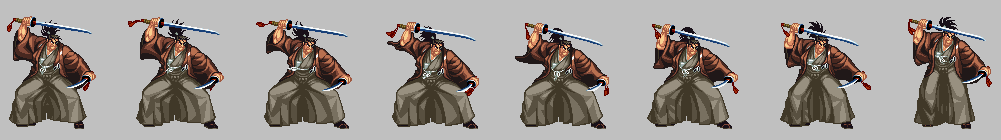
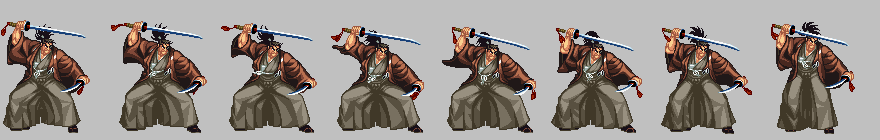
Agregadas subclases resueltos bugfix

diff --git a/test.py b/test.py
@@ -9,7 +9,7 @@ pygame.init()
 pantalla_ancho = 1600
 pantalla_alto = 1000
 pantalla = pygame.display.set_mode((pantalla_ancho, pantalla_alto))
-pygame.display.set_caption("Pelea de dioses")
+pygame.display.set_caption("God's Fight")
 
 # Colores
 blanco = (255, 255, 255)
@@ -22,6 +22,9 @@ verde_transparente = (0, 255, 0, 128)
 verde_vd = (1, 233, 12)
 amarillos_ps = (255, 243, 78)
 fondo_samurai = (192, 192, 192)
+fondo_anubis = (84,165,75)
+fondo_anubis2 = (58,111,51)
+fondo_anubis3 = (27,89,153)
 
 # Configuración del reloj
 reloj = pygame.time.Clock()
@@ -34,7 +37,10 @@ duracion_partida = 120
 inicio_tiempo = pygame.time.get_ticks()
 
 # Plataforma
-plataforma = pygame.Rect(200, 550, pantalla_ancho - 400, 200)
+imagen_plataforma = pygame.image.load('assets/images/plataforma.jpg').convert_alpha()
+plataforma = pygame.Rect(200, 550, pantalla_ancho - 400, 500)
+imagen_plataforma = pygame.transform.scale(imagen_plataforma, (plataforma.width, plataforma.height))
+
 
 def cargar_sprites(hoja, num_sprites, ancho_sprite, alto_sprite, color):
     sprites = []
@@ -46,12 +52,13 @@ def cargar_sprites(hoja, num_sprites, ancho_sprite, alto_sprite, color):
     return sprites
 
 class Jugador:
-    def __init__(self, rectan, aura, velocidad=2, fuerza_salto=7.5, gravedad=0.3, sprites=None):
+    def __init__(self, rectan, aura, velocidad=2, fuerza_salto=7.5):
         self.rectan = rectan
         self.aura = aura
         self.velocidad = velocidad
+        self.velocidad_inicial = velocidad
         self.fuerza_salto = fuerza_salto
-        self.gravedad = gravedad
+        self.gravedad = 0.3
         self.velocidad_y = 0
         self.en_plataforma = False
         self.salud = 500
@@ -62,47 +69,54 @@ class Jugador:
         self.retroceso_y = 0
         self.proyectiles = []
 
-        # Animaciones
-        self.sprites = sprites
-        self.animacion_actual = "idle"
-        self.animaciones = {
-            "idle": cargar_sprites(pygame.image.load('assets/anims/samurai/idle_samurai.png').convert_alpha(), 10, 107.6, 140, fondo_samurai),
-            "run": cargar_sprites(pygame.image.load('assets/anims/samurai/caminar_samurai.png').convert_alpha(), 8, 125, 140, fondo_samurai),
-            "run_b": cargar_sprites(pygame.image.load('assets/anims/samurai/caminata_atras_samurai.png').convert_alpha(), 8, 118.25, 140, fondo_samurai),
-            "jump": cargar_sprites(pygame.image.load('assets/anims/samurai/salto_samurai.png').convert_alpha(), 5, 108.2, 140, fondo_samurai),
-            "attack": cargar_sprites(pygame.image.load('assets/anims/samurai/ataque_samurai.png').convert_alpha(), 5, 146.2, 140, fondo_samurai),
-            "defense": cargar_sprites(pygame.image.load('assets/anims/samurai/bloqueo_samurai.png').convert_alpha(), 4, 109, 140, fondo_samurai),
-            'hit': cargar_sprites(pygame.image.load('assets/anims/samurai/dañado_samurai.png').convert_alpha(), 5, 121.6, 140, fondo_samurai)
-        }
-        self.sprite_index = 0
-        self.image = self.animaciones[self.animacion_actual][self.sprite_index]
-        self.tiempo_ultimo_sprite = pygame.time.get_ticks()
-        self.tiempo_entre_sprites = 75  # Milisegundos entre cada frame de la animación
+    def actualizar_animacion(self):
+        ahora = pygame.time.get_ticks()
+        if ahora - self.tiempo_ultimo_sprite > self.tiempo_entre_sprites:
+            self.tiempo_ultimo_sprite = ahora
+            self.sprite_index += 1
+            if self.sprite_index >= len(self.animaciones[self.animacion_actual]):
+                self.sprite_index = 0
+            self.image = self.animaciones[self.animacion_actual][self.sprite_index]
 
 
-    def actualizar(self, teclas, izq, derecha, salto, defensa, ataque, otro_jugador):
+    def actualizar(self, teclas, izq, derecha, salto, defensa, ataque, ataque_f, otro_jugador):
         tiempo = pygame.time.get_ticks()
         if teclas[izq]:
+            if self.en_plataforma:
+                self.animacion_actual = "run_b"
             self.rectan.x -= self.velocidad
             self.aura.x -= self.velocidad
-            self.animacion_actual = "run_b"
+            if self.rectan.colliderect(plataforma):
+                self.rectan.left = plataforma.right
+                self.aura.left = plataforma.right
     
         if teclas[derecha]:
-            self.animacion_actual = "run"
+            if self.en_plataforma:
+                self.animacion_actual = "run"
             self.rectan.x += self.velocidad
             self.aura.x += self.velocidad
+            if self.rectan.colliderect(plataforma):
+                self.rectan.right = plataforma.left
+                self.aura.right = plataforma.left
 
         if teclas[salto] and self.en_plataforma:
             self.en_plataforma = False
             self.velocidad_y = -self.fuerza_salto
         
-        if not self.en_plataforma:
+        if not self.en_plataforma and otro_jugador.animacion_actual != 'attack':
             self.animacion_actual = "jump"
         
         if teclas[ataque]:
             self.animacion_actual = "attack"
-            if otro_jugador.aura.colliderect(self.aura):
+            if otro_jugador.rectan.colliderect(self.rectan):
                 otro_jugador.animacion_actual = "hit"
+        
+        self.defendiendo = teclas[defensa]
+        if self.defendiendo:
+            self.velocidad = self.velocidad_inicial * 0.2
+            self.animacion_actual = "defense"
+        else:
+            self.velocidad = self.velocidad_inicial
         
         if self.cooldown < tiempo and not (teclas[izq] or teclas[derecha] or teclas[salto]) and otro_jugador.animacion_actual != 'attack' and self.en_plataforma:
             self.animacion_actual = "idle"
@@ -111,7 +125,8 @@ class Jugador:
         self.rectan.y += self.velocidad_y
         self.aura.y += self.velocidad_y
         self.velocidad_y += self.gravedad
-
+        if self.velocidad_y > 2:
+            self.en_plataforma = False
         # Aplicar retroceso
         self.rectan.x += self.retroceso_x
         self.rectan.y += self.retroceso_y
@@ -121,57 +136,18 @@ class Jugador:
         # Reducir el retroceso gradualmente
         self.retroceso_x *= 0.9
         self.retroceso_y *= 0.9
-
          # Colisión con la plataforma
         if self.rectan.colliderect(plataforma):
-            # Detectar desde qué lado colisiona el jugador con la plataforma
-            if self.rectan.bottom > plataforma.top and self.rectan.top < plataforma.top and self.velocidad_y > 0:
-                # Colisión desde arriba
+            if self.velocidad_y > 0:  # Sólo ajustar si el jugador está cayendo
                 self.rectan.bottom = plataforma.top
                 self.aura.bottom = plataforma.top
                 self.velocidad_y = 0
                 self.en_plataforma = True
-            # elif self.rectan.top < plataforma.bottom and self.rectan.bottom > plataforma.bottom and self.velocidad_y < 0:
-            #     # Colisión desde abajo
-            #     self.rectan.top = plataforma.bottom
-            #     self.aura.top = plataforma.bottom
-            #     self.velocidad_y = 0
-            if self.rectan.left > plataforma.left and self.rectan.left < plataforma.left:
-                # Colisión desde la izquierda
-                self.rectan.right = plataforma.left
-                self.aura.right = plataforma.left
-            if self.rectan.right < plataforma.right and self.rectan.right > plataforma.right:
-                # Colisión desde la derecha
-                self.rectan.left = plataforma.right
-                self.aura.left = plataforma.right
-        # Colisión con el otro jugador
-        # if self.rectan.colliderect(otro_jugador.rectan):
-        #     if teclas[izq]:
-        #         self.rectan.x = otro_jugador.rectan.right
-        #         self.aura.x = otro_jugador.rectan.right - 20
-        #     if teclas[derecha]:
-        #         self.rectan.x = otro_jugador.rectan.left - self.rectan.width
-        #         self.aura.x = otro_jugador.rectan.left - self.aura.width + 20
-
-        # Actualizar estado de defensa y velocidad de movimiento
-        self.defendiendo = teclas[defensa]
-        if self.defendiendo:
-            self.velocidad = 2
-            self.animacion_actual = "defense"
-        else:
-            self.velocidad = 5
+            else:
+                self.en_plataforma = False
 
         # Actualizar animación
         self.actualizar_animacion()
-
-    def actualizar_animacion(self):
-        ahora = pygame.time.get_ticks()
-        if ahora - self.tiempo_ultimo_sprite > self.tiempo_entre_sprites:
-            self.tiempo_ultimo_sprite = ahora
-            self.sprite_index += 1
-            if self.sprite_index >= len(self.animaciones[self.animacion_actual]):
-                self.sprite_index = 0
-            self.image = self.animaciones[self.animacion_actual][self.sprite_index]
 
     def bajar_salud(self, dano, direccion_retroceso):
         self.salud -= dano
@@ -213,10 +189,10 @@ class Jugador:
         pygame.draw.rect(pantalla, blanco, barra)
         pygame.draw.rect(pantalla, amarillos_ps, progreso)
     
-    def disparar_proyectil(self):
-        direccion = 1 if self.rectan.x < pantalla_ancho // 2 else -1
+    def disparar_proyectil(self, otro_jugador):
+        direccion = 1 if self.rectan.x < otro_jugador.rectan.x else -1
         velocidad = 5
-        posicion = self.rectan.midleft
+        posicion = (self.rectan.x + 5,self.rectan.y + 50)
         proyectil = Proyectil(posicion, velocidad, direccion)
         self.proyectiles.append(proyectil)
 
@@ -228,20 +204,61 @@ class Jugador:
         for proyectil in self.proyectiles:
             proyectil.dibujar()
 
-class Proyectil:
-    def __init__(self, posicion, velocidad, direccion, sprites=None):
-        self.rect = pygame.Rect(posicion, (60, 10))
-        self.velocidad = velocidad
-        self.direccion = direccion
-        self.sprites = sprites
-        self.animacion_actual = "disparado"
+# Definición de las subclases
+class Samurai(Jugador):
+    def __init__(self, rectan, aura):
+        super().__init__(rectan, aura, velocidad=4.5, fuerza_salto=7.5)
+        # Animaciones
+        self.animacion_actual = "idle"
         self.animaciones = {
-            "disparado": cargar_sprites(pygame.image.load('assets/anims/samurai/proyectil_samurai.png').convert_alpha(), 3, 129.6, 50, fondo_samurai),
+            "idle": cargar_sprites(pygame.image.load('assets/anims/samurai/idle_samurai.png').convert_alpha(), 10, 107.6, 140, fondo_samurai),
+            "run": cargar_sprites(pygame.image.load('assets/anims/samurai/caminar_samurai.png').convert_alpha(), 8, 110, 140, fondo_samurai),
+            "run_b": cargar_sprites(pygame.image.load('assets/anims/samurai/caminata_atras_samurai.png').convert_alpha(), 8, 110, 140, fondo_samurai),
+            "jump": cargar_sprites(pygame.image.load('assets/anims/samurai/salto_samurai.png').convert_alpha(), 5, 108.2, 140, fondo_samurai),
+            "attack": cargar_sprites(pygame.image.load('assets/anims/samurai/ataque_samurai.png').convert_alpha(), 5, 140, 140, fondo_samurai),
+            "defense": cargar_sprites(pygame.image.load('assets/anims/samurai/bloqueo_samurai.png').convert_alpha(), 2, 100, 140, fondo_samurai),
+            'hit': cargar_sprites(pygame.image.load('assets/anims/samurai/dañado_samurai.png').convert_alpha(), 5, 121.6, 140, fondo_samurai),
+            'shoot': cargar_sprites(pygame.image.load('assets/anims/samurai/disparo_samurai.png').convert_alpha(), 7, 195, 140, fondo_samurai)
         }
         self.sprite_index = 0
         self.image = self.animaciones[self.animacion_actual][self.sprite_index]
         self.tiempo_ultimo_sprite = pygame.time.get_ticks()
         self.tiempo_entre_sprites = 75  # Milisegundos entre cada frame de la animación
+
+class Anubis(Jugador):
+    def __init__(self, rectan, aura):
+        super().__init__(rectan, aura, velocidad=4, fuerza_salto=10)
+        # Animaciones
+        self.animacion_actual = "idle"
+        self.animaciones = {
+            "idle": cargar_sprites(pygame.image.load('assets/anims/anubis/idle_anubis.png').convert_alpha(), 8, 128.75, 98, fondo_anubis),
+            "run": cargar_sprites(pygame.image.load('assets/anims/anubis/caminata_anubis.png').convert_alpha(), 8, 129, 98, fondo_anubis),
+            "run_b": cargar_sprites(pygame.image.load('assets/anims/anubis/caminata_anubis.png').convert_alpha(), 8, 129, 98, fondo_anubis),
+            "jump": cargar_sprites(pygame.image.load('assets/anims/anubis/salto_anubis.png').convert_alpha(), 8, 128.75, 98, fondo_anubis),
+            "attack": cargar_sprites(pygame.image.load('assets/anims/anubis/ataque_anubis.png').convert_alpha(), 8, 131.375, 98, fondo_anubis),
+            "defense": cargar_sprites(pygame.image.load('assets/anims/anubis/bloqueo_anubis.png').convert_alpha(), 10, 129, 98, fondo_anubis),
+            'hit': cargar_sprites(pygame.image.load('assets/anims/anubis/caminata_anubis.png').convert_alpha(), 8, 129, 98, fondo_anubis),
+            'shoot': cargar_sprites(pygame.image.load('assets/anims/anubis/caminata_anubis.png').convert_alpha(), 8, 129, 98, fondo_anubis)
+        }
+        self.sprite_index = 0
+        self.image = self.animaciones[self.animacion_actual][self.sprite_index]
+        self.tiempo_ultimo_sprite = pygame.time.get_ticks()
+        self.tiempo_entre_sprites = 75  # Milisegundos entre cada frame de la animación
+
+class Proyectil:
+    def __init__(self, posicion, velocidad, direccion, sprites=None):
+        self.rect = pygame.Rect(posicion, (70, 10))
+        self.velocidad = velocidad
+        self.direccion = direccion
+        self.sprites = sprites
+        self.animacion_actual = "disparo"
+        self.animaciones = {
+            "disparo": cargar_sprites(pygame.image.load('assets/anims/samurai/proyectil_samurai.png').convert_alpha(), 3, 132, 30, fondo_samurai),
+        }
+        self.sprite_index = 0
+        self.image = self.animaciones[self.animacion_actual][self.sprite_index]
+        self.tiempo_ultimo_sprite = pygame.time.get_ticks()
+        self.tiempo_entre_sprites = 3000  # Milisegundos entre cada frame de la animación
 
     def actualizar(self):
         self.rect.x += self.velocidad * self.direccion
@@ -252,11 +269,11 @@ class Proyectil:
         
 class Juego:
     def __init__(self):
-        self.jugador1 = Jugador(pygame.Rect(pantalla_ancho // 2 - 250, 500, 80, 130), pygame.Rect(pantalla_ancho // 2 - 270, 380, 70, 120))
-        self.jugador2 = Jugador(pygame.Rect(pantalla_ancho // 2 + 220, 500, 80, 130), pygame.Rect(pantalla_ancho // 2 + 200, 380, 70, 120))
+        self.jugador1 = Samurai(pygame.Rect(pantalla_ancho // 2 - 240, 200, 80, 130), pygame.Rect(pantalla_ancho // 2 - 240, 200, 115, 130))
+        self.jugador2 = Anubis(pygame.Rect(pantalla_ancho // 2 + 240, 200, 80, 130), pygame.Rect(pantalla_ancho // 2 + 240, 200, 115, 130))
         self.ejecutando = True
         # Cargar la imagen de fondo
-        self.fondo = pygame.image.load("assets/images/img3.jpeg")
+        self.fondo = pygame.image.load("assets/images/img2.jpeg")
         self.fondo = pygame.transform.scale(self.fondo, (pantalla_ancho, pantalla_alto))
 
     def comprobar_colisiones_y_ataques(self, teclas, ataque_j1, ataque_j2, ataque_especial_j1, ataque_especial_j2, proyectil_j1, proyectil_j2):
@@ -306,10 +323,10 @@ class Juego:
 
         # Comprobar ataques con proyectil
         if teclas[proyectil_j1] and self.jugador1.cooldown < tiempo_actual:
-            self.jugador1.disparar_proyectil()
+            self.jugador1.disparar_proyectil(self.jugador2)
             self.jugador1.cooldown = tiempo_actual + 4000 
         if teclas[proyectil_j2] and self.jugador2.cooldown < tiempo_actual:
-            self.jugador2.disparar_proyectil()
+            self.jugador2.disparar_proyectil(self.jugador1)
             self.jugador2.cooldown = tiempo_actual + 4000
 
         # Actualizar proyectiles y comprobar colisiones con jugadores
@@ -359,8 +376,8 @@ class Juego:
                 teclas = pygame.key.get_pressed()
 
                 # Actualizar los jugadores
-                self.jugador1.actualizar(teclas, pygame.K_a, pygame.K_d, pygame.K_w, pygame.K_s, pygame.K_r, self.jugador2)
-                self.jugador2.actualizar(teclas, pygame.K_LEFT, pygame.K_RIGHT, pygame.K_UP, pygame.K_DOWN, pygame.K_i, self.jugador1)
+                self.jugador1.actualizar(teclas, pygame.K_a, pygame.K_d, pygame.K_w, pygame.K_s, pygame.K_r,pygame.K_t, self.jugador2)
+                self.jugador2.actualizar(teclas, pygame.K_LEFT, pygame.K_RIGHT, pygame.K_UP, pygame.K_DOWN, pygame.K_i, pygame.K_o, self.jugador1)
 
                 # Comprobar colisiones entre las auras y los jugadores, y ataques
                 if self.comprobar_colisiones_y_ataques(teclas, pygame.K_r, pygame.K_i, pygame.K_t, pygame.K_o, pygame.K_y, pygame.K_p):
@@ -372,7 +389,8 @@ class Juego:
                 # Dibujar todo en la pantalla
                 pantalla.blit(self.jugador1.image, self.jugador1.rectan.topleft)
                 pantalla.blit(self.jugador2.image, self.jugador2.rectan.topleft)
-                pygame.draw.rect(pantalla, gris, plataforma)
+                pantalla.blit(imagen_plataforma, plataforma)
+                #pygame.draw.rect(pantalla, gris, plataforma)
 
                 # Dibujar las auras para visualización (opcional)
                 # pygame.draw.rect(pantalla, verde_transparente, self.jugador1.aura)
@@ -414,13 +432,11 @@ juego = Juego()
 juego.ejecutar()
 
 # Mecánicas:
-# Falta arreglar ataque a distancia; solucionar bug al pegarse a la plataforma por los costados; faltan agregar personajes distintos con características diferentes;
-# evento de muerte al caer de la plataforma; agregar dos vidas para cada jugador.
+# Agregar algo que diferencie a anubis y samurai; evento de muerte al caer de la plataforma; agregar dos vidas para cada jugador.
 # Animaciones:
-# Continuar añadiendo animaciones distintas para cada personaje; hacer para que las animaciones tengan su espejo; corregir las imágenes de las animaciones
-# cambiar animación de bloqueo de samurai; mejorar lógica de animaciones.
+# terminar de añadir animaciones para Anubis; hacer que las animaciones tengan su espejo; corregir los colores de imágenes anubis; mejorar animación de bloqueo de samurai; reescalar imágenes Anubis.
 # Interfaces:
 # Interfaz de selección de personajes; mejorar interfaz de inicio del juego; agregar interfaz de pausa; mejorar las barras de vida, contadores y fuentes
 # General:
 # Falta contador inicial para iniciar el juego; falta pantalla final al ganar un jugador; dividir las funcionalidades por archivos; agregar imagen a plataforma;
-# agregar efectos de sonido y música de fondo.
+# agregar efectos de sonido y música de fondo; buscar imágenes para plataforma.
